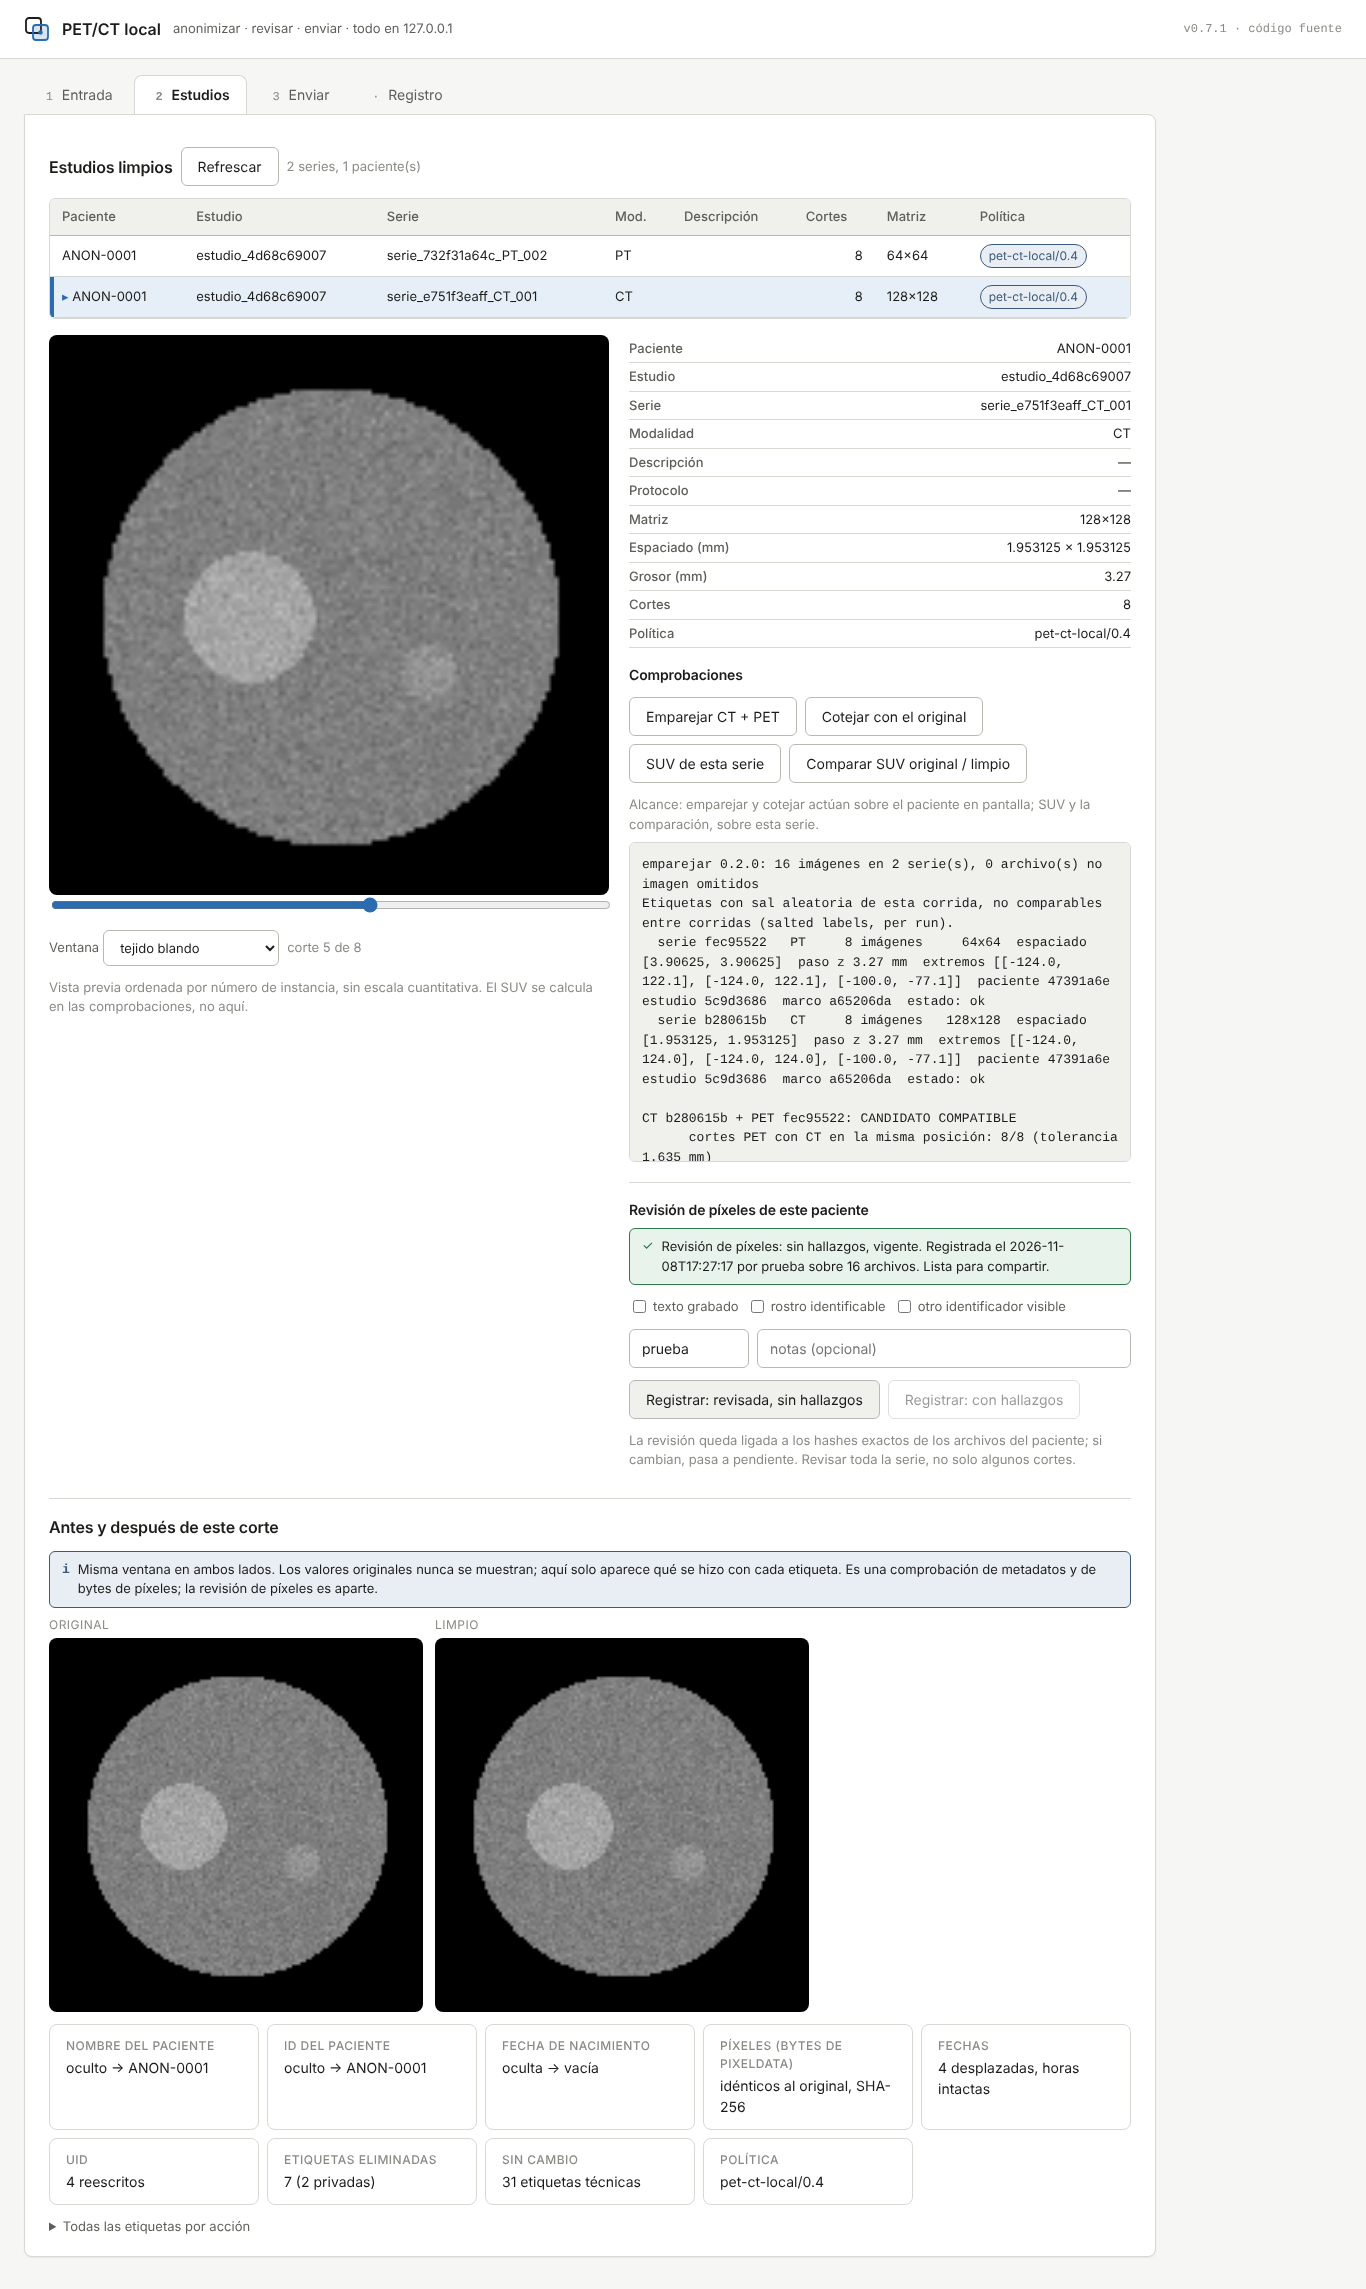
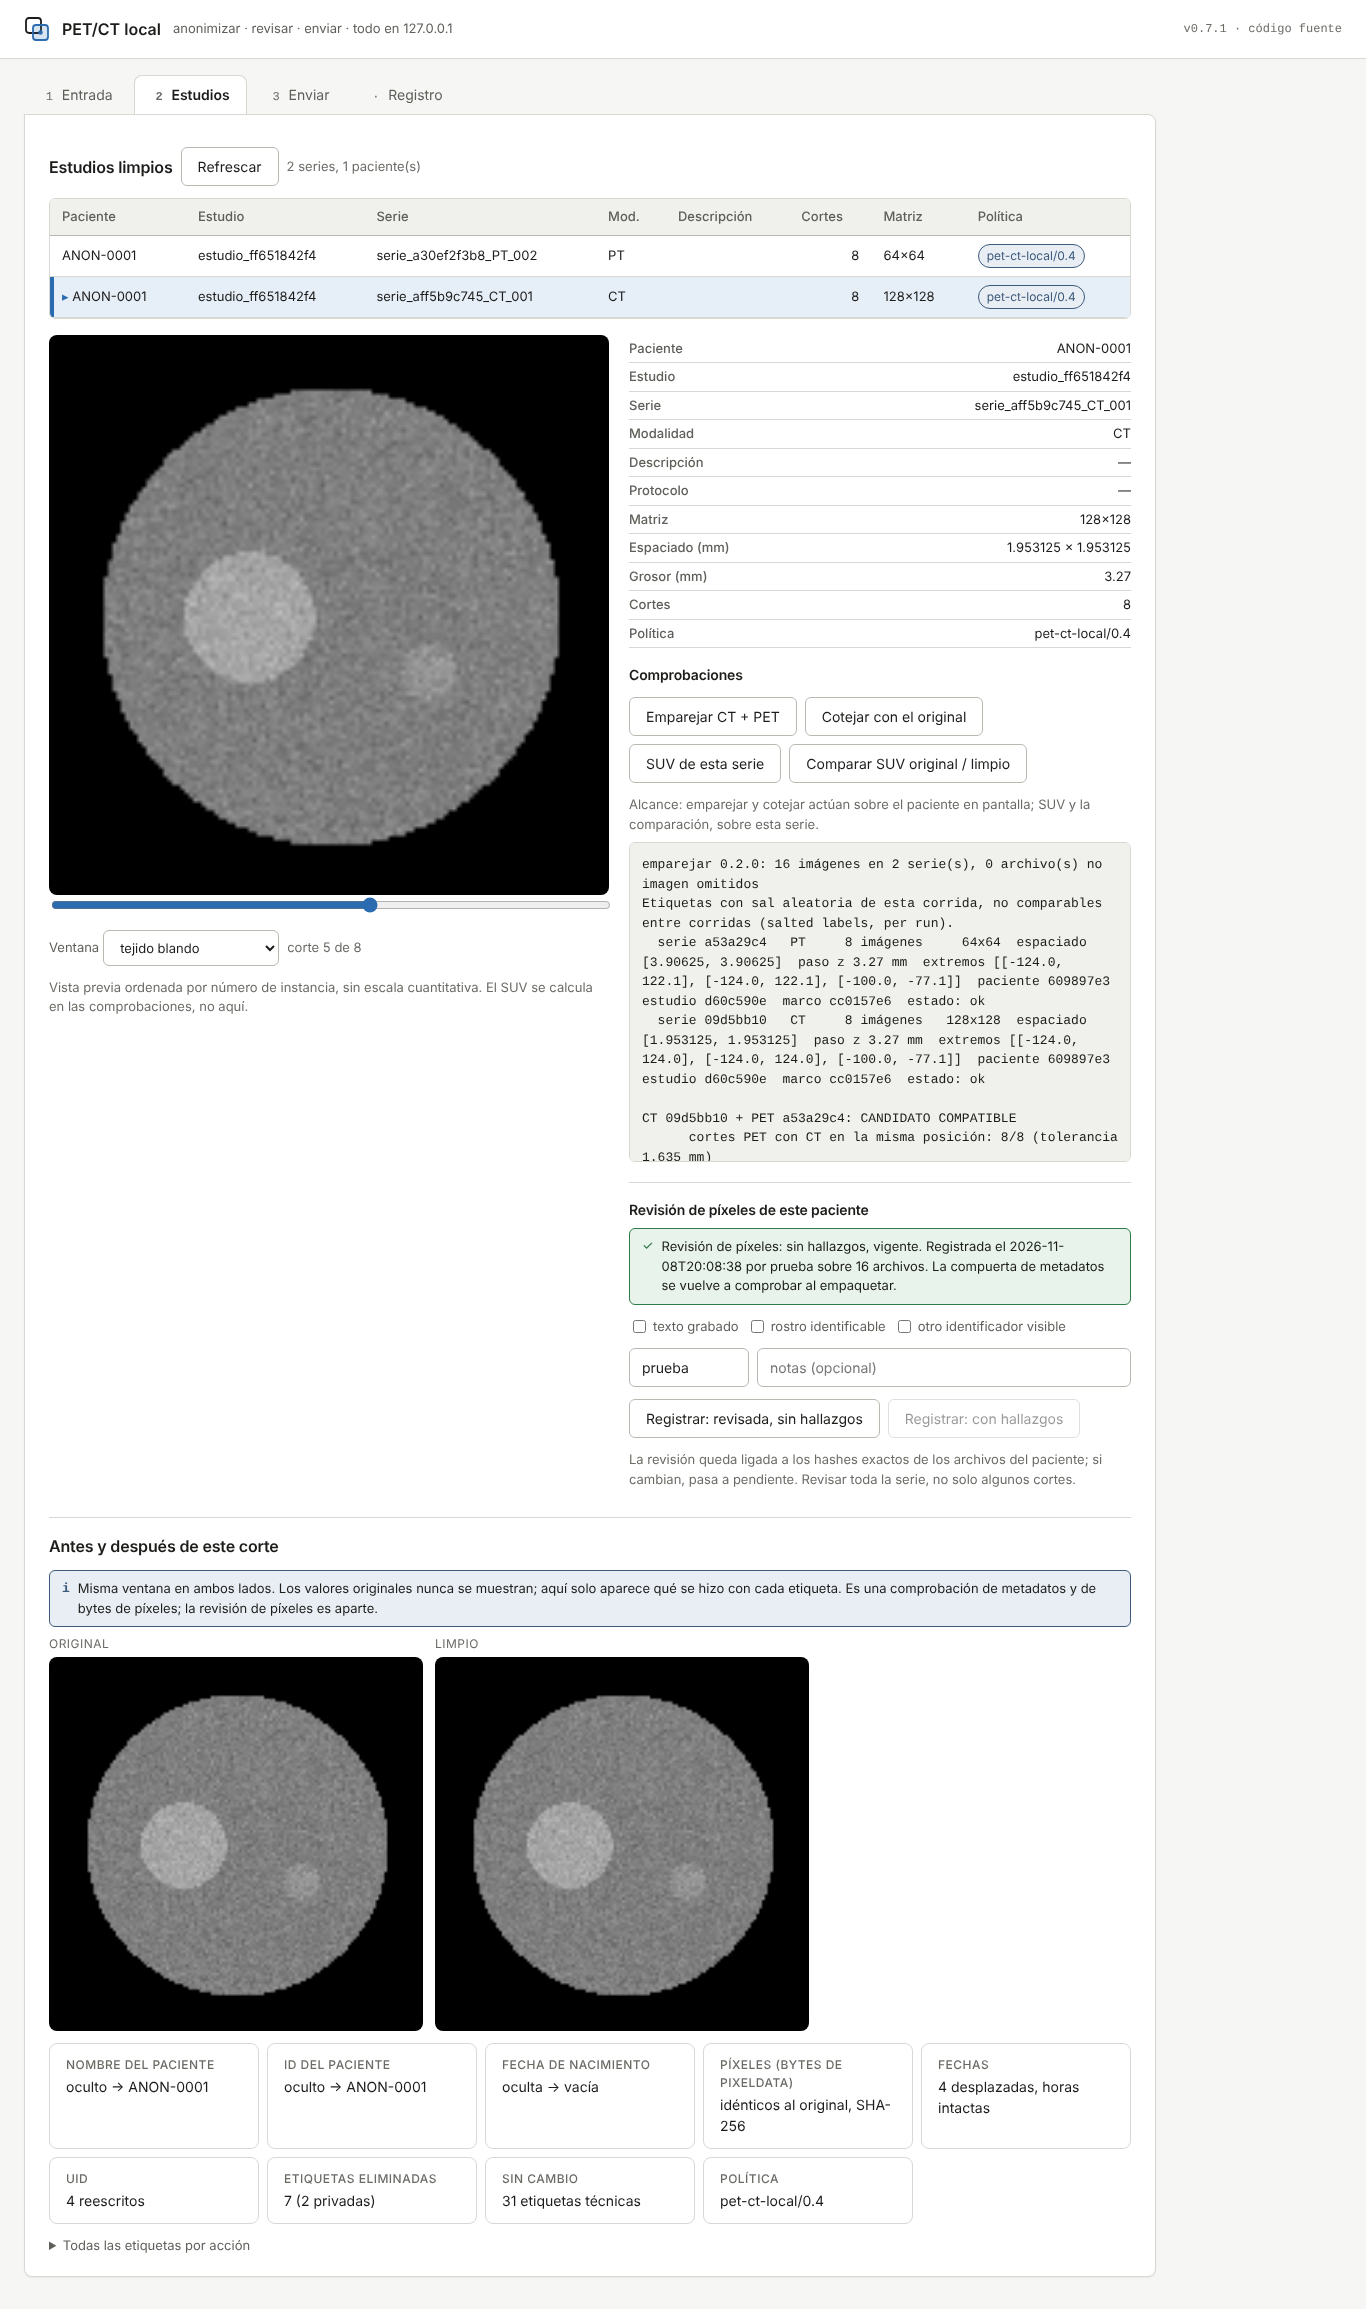
Revisión del PR: adjuntos con pydicom obligatorio e identidad exacta, cobertura del manifiesto, contraste y mensaje de revisión

diff --git a/herramientas/estilo.css b/herramientas/estilo.css
@@ -12,7 +12,7 @@
   --borde-fuerte: #b9b9b2;
   --tinta: #1c1c1a;          /* texto principal */
   --tinta-2: #5f5f5a;        /* texto secundario */
-  --tinta-3: #8a8a84;        /* texto terciario, etiquetas */
+  --tinta-3: #6b6b66;        /* texto terciario, etiquetas (4,9:1 sobre blanco) */
   --imagen-fondo: #000000;   /* las imágenes médicas siempre sobre negro */
   /* color: acento único */
   --acento: #2b6cb0;
@@ -38,7 +38,7 @@
 @media (prefers-color-scheme: dark) {
   :root {
     --fondo: #151514; --panel: #1e1e1c; --panel-2: #262624; --borde: #35352f; --borde-fuerte: #4a4a43;
-    --tinta: #ebebe6; --tinta-2: #a9a9a1; --tinta-3: #7f7f78;
+    --tinta: #ebebe6; --tinta-2: #a9a9a1; --tinta-3: #9a9a93;
     --acento: #7fb0e6; --acento-tinta: #0f1a26; --acento-suave: #22303f;
     --ok: #74c494; --ok-suave: #1d2f24; --aviso: #e0b64f; --aviso-suave: #352c14;
     --error: #e58876; --error-suave: #3a2420; --info: #9fb8d2; --info-suave: #222a33;

diff --git a/pruebas/comprobar_adjuntos.py b/pruebas/comprobar_adjuntos.py
@@ -27,7 +27,12 @@ import sys
 import zipfile
 from pathlib import Path
 
-PRIVADOS = re.compile(r"(mapa_seudonimos|indice_origen|raices\.json|corridas\.jsonl|revision_pixeles|registro\.log|/PRIVADO/|limpios_PRIVADO|paquete_\d{8}_)", re.I)
+try:
+    import pydicom
+except ImportError:  # sin pydicom no se puede validar la demo: se rechaza, nunca se acepta en silencio
+    pydicom = None
+
+PRIVADOS = re.compile(r"(mapa_seudonimos|indice_origen|raices\.json|corridas\.jsonl|revision_pixeles|registro\.log|(?:^|[/\\])PRIVADO(?:[/\\]|$)|limpios_PRIVADO|paquete_\d{8}_)", re.I)
 DEMO_NOMBRE, DEMO_FABRICANTE, DEMO_CREADOR = b"DEMO^PACIENTE^SINTETICO", b"DEMO SINTETICA", b"DEMO PRIVADO"
 
 
@@ -49,19 +54,20 @@ def revisar_zip(ruta: Path) -> list[str]:
                 if not es_demo:
                     problemas.append(f"{ruta.name}: contiene un DICOM: {info.filename}")
                     continue
-                if DEMO_NOMBRE not in datos or DEMO_FABRICANTE not in datos:
-                    problemas.append(f"{ruta.name}: DICOM sin la identidad sintética de la demo: {info.filename}")
-                # cualquier creador privado que no sea el de la demo delata un origen distinto
+                if pydicom is None:
+                    problemas.append(f"{ruta.name}: no se puede validar la demo sin pydicom: {info.filename}")
+                    continue
+                # identidad exacta de la demo y recorrido completo del dataset (secuencias incluidas, hasta el final)
                 try:
-                    import pydicom
-                    ds = pydicom.dcmread(io.BytesIO(datos), stop_before_pixels=True, force=True)
-                    creadores = {str(e.value).strip() for e in ds if e.tag.is_private and e.tag.element < 0x100}
-                    if creadores - {DEMO_CREADOR.decode()}:
-                        problemas.append(f"{ruta.name}: DICOM con creadores privados ajenos a la demo: {info.filename}")
-                except ImportError:
-                    pass
-            elif es_demo and not info.filename.endswith("/"):
-                pass
+                    ds = pydicom.dcmread(io.BytesIO(datos), force=True)
+                except Exception:
+                    problemas.append(f"{ruta.name}: DICOM ilegible dentro de la demo: {info.filename}")
+                    continue
+                if str(ds.get("PatientName", "")) != DEMO_NOMBRE.decode() or str(ds.get("Manufacturer", "")) != DEMO_FABRICANTE.decode():
+                    problemas.append(f"{ruta.name}: DICOM sin la identidad sintética exacta de la demo: {info.filename}")
+                creadores = {str(e.value).strip() for e in ds.iterall() if e.tag.is_private and e.tag.element < 0x100}
+                if creadores - {DEMO_CREADOR.decode()}:
+                    problemas.append(f"{ruta.name}: DICOM con creadores privados ajenos a la demo: {info.filename}")
     return problemas
 
 
@@ -69,6 +75,9 @@ def main(argv: list[str]) -> int:
     rutas = [Path(a) for a in argv]
     if not rutas:
         print("indica los zips a comprobar (give the zips to check)")
+        return 2
+    if pydicom is None:
+        print("pydicom no está disponible: no se pueden comprobar los adjuntos, así que se rechazan (pydicom required)")
         return 2
     todos: list[str] = []
     for r in rutas:

diff --git a/herramientas/app.py b/herramientas/app.py
@@ -1041,7 +1041,7 @@ document.querySelectorAll('#botones-comprobar button').forEach(b => b.onclick = 
   catch (err) { texto('#salida-comprobar', err.message); }
 });
 function pintarRevision(r) {
-  if (r.lista_para_compartir) mensaje('#rev-estado', 'ok', 'Revisión de píxeles: sin hallazgos, vigente. Registrada el ' + r.fecha + (r.revisor ? ' por ' + r.revisor : '') + ' sobre ' + r.archivos_revisados + ' archivos. Lista para compartir.');
+  if (r.lista_para_compartir) mensaje('#rev-estado', 'ok', 'Revisión de píxeles: sin hallazgos, vigente. Registrada el ' + r.fecha + (r.revisor ? ' por ' + r.revisor : '') + ' sobre ' + r.archivos_revisados + ' archivos. La compuerta de metadatos se vuelve a comprobar al empaquetar.');
   else if (r.estado === 'con_hallazgos' && r.vigente) mensaje('#rev-estado', 'error', 'Revisión de píxeles: con hallazgos (' + (r.hallazgos || []).join(', ') + ') el ' + r.fecha + '. Requiere tratamiento antes de compartir.');
   else mensaje('#rev-estado', 'aviso', 'Revisión de píxeles pendiente: ' + (r.detalle || ''));
 }

diff --git a/pruebas/humo_paquete.py b/pruebas/humo_paquete.py
@@ -119,6 +119,9 @@ def main() -> int:
             ok(not any(any(p in n for p in PRIVADOS) for n in nombres), "ningún archivo privado dentro del zip")
             manifiesto = json.loads(z.read("manifiesto.json"))
             ok(manifiesto.get("revision_pixeles_pendiente") == [], "el manifiesto registra la revisión vigente")
+            rutas_manifestadas = [e["ruta"] for e in manifiesto["archivos"]]
+            ok(len(rutas_manifestadas) == len(set(rutas_manifestadas)), "el manifiesto no repite archivos")
+            ok(set(rutas_manifestadas) == set(nombres) - {"manifiesto.json"}, "el manifiesto enumera exactamente los DICOM del zip")
             for e in manifiesto["archivos"]:
                 ok(hashlib.sha256(z.read(e["ruta"])).hexdigest() == e["sha256"], f"hash del manifiesto coincide: {e['ruta'][-20:]}")
             extraido = trabajo / "extraido"

diff --git a/pruebas/interfaz/prueba_navegador.py b/pruebas/interfaz/prueba_navegador.py
@@ -123,7 +123,7 @@ def main() -> int:
             expect(pag.locator("#rev-con")).to_be_disabled()
             ok(True, "botones de revisión: deshabilitados sin revisor; con un hallazgo solo 'con hallazgos'; sin hallazgos solo 'sin hallazgos'")
             pag.click("#rev-sin")
-            expect(pag.locator("#rev-estado")).to_contain_text("Lista para compartir", timeout=30000)
+            expect(pag.locator("#rev-estado")).to_contain_text("sin hallazgos, vigente", timeout=30000)
             ok(True, "revisión sin hallazgos registrada y vigente")
             pag.screenshot(path=str(destino / f"{a.etiqueta}-2-estudios.png"), full_page=True)
 

diff --git a/docs/CAMBIOS.md b/docs/CAMBIOS.md
@@ -191,3 +191,15 @@ Respuesta a la revisión de 0.6. Plataforma de Miguel: Windows 10.
 | 1 | La prueba de orden elegía un corte cualquiera; si tocaba un extremo, el orden seguía válido y la prueba fallaba sin motivo | La prueba elige el corte del medio por posición física y rompe el orden a propósito | Suite ejecutada tres veces: 25 de 25 cada vez |
 | 2 | La geometría solo se exigía en conjunto: un par sin ImagePositionPatient pasaba si otros la traían | Cada par debe traer posición, orientación y espaciado en ambos lados; el conteo `geometria_incompleta` forma parte del resultado de orden y geometría | Un solo corte sin posición → DIFERENCIAS con correspondencia completa; todos sin posición → DIFERENCIAS |
 | 3 | Un problema de orden también marcaba como incompleta la correspondencia | Tres resultados independientes: correspondencia (inventario), orden y geometría, igualdad numérica; cada problema se imprime bajo su apartado y el veredicto exige los tres | Orden incoherente en ambos lados: correspondencia sí, orden NO, píxeles sí, DIFERENCIAS |
+
+## Revisión del PR #1 (Copilot) y runner de Windows
+
+| # | Hallazgo / Finding | Cambio / Change | Prueba / Test |
+|---|---|---|---|
+| 1 | El gancho llegaba con CRLF al runner de Windows (20 retornos de carro); la prueba nueva lo mostró | `.gitattributes` añadido a la rama (`.githooks/* text eol=lf`); la prueba de CR sigue vigilándolo | `test_el_gancho_no_tiene_retornos_de_carro` |
+| 2 | "Lista para compartir" solo acreditaba la revisión de píxeles | El mensaje dice "sin hallazgos, vigente" y que la compuerta se vuelve a comprobar al empaquetar | Prueba de navegador actualizada |
+| 3 | El patrón de archivos privados no detectaba `PRIVADO/` en la raíz del zip ni separadores de Windows | Límites de componente en el patrón | Zip con `PRIVADO/secreto.json` en la raíz, rechazado |
+| 4 | La identidad de la demo se buscaba en los bytes; creadores privados solo al nivel superior | Valores exactos de PatientName y Manufacturer y recorrido completo del dataset | DICOM ajeno colado en la demo, rechazado |
+| 5 | Sin pydicom el comprobador aceptaba en silencio | pydicom obligatorio: sin él, rechaza con código 2 | Simulado sin pydicom: código 2 |
+| 6 | El manifiesto podía omitir DICOM del zip | La prueba de humo exige que las rutas del manifiesto sean exactamente los DICOM del zip, sin repetidos | Prueba de humo, 39 comprobaciones |
+| 7 | Contraste de `--tinta-3` bajo el mínimo en claro y en oscuro | `#6b6b66` (claro) y `#9a9a93` (oscuro) | |
